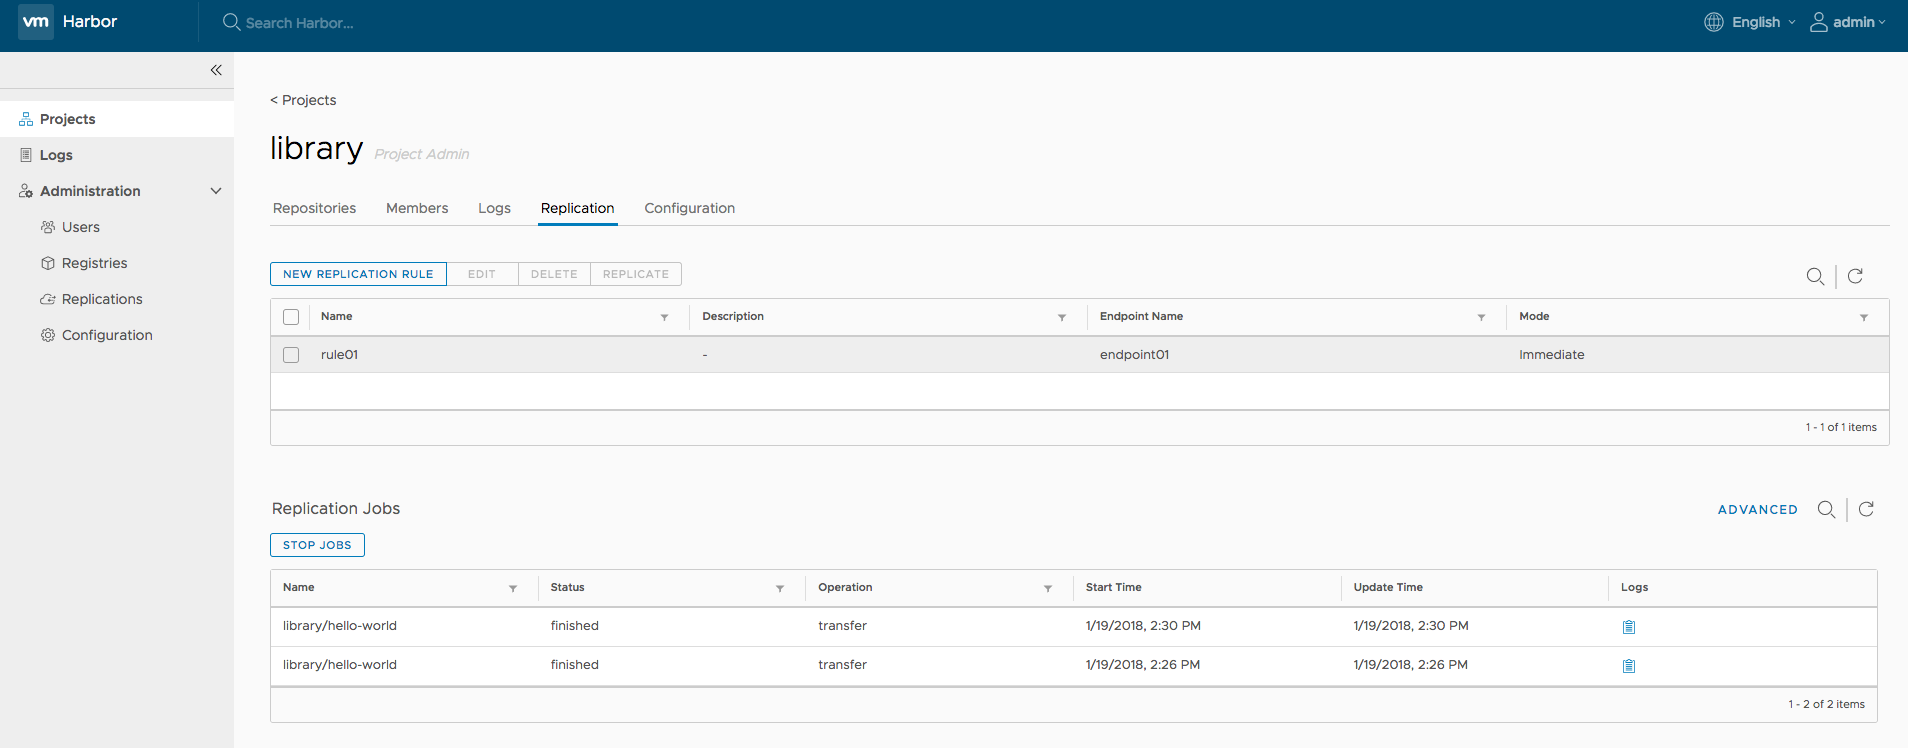
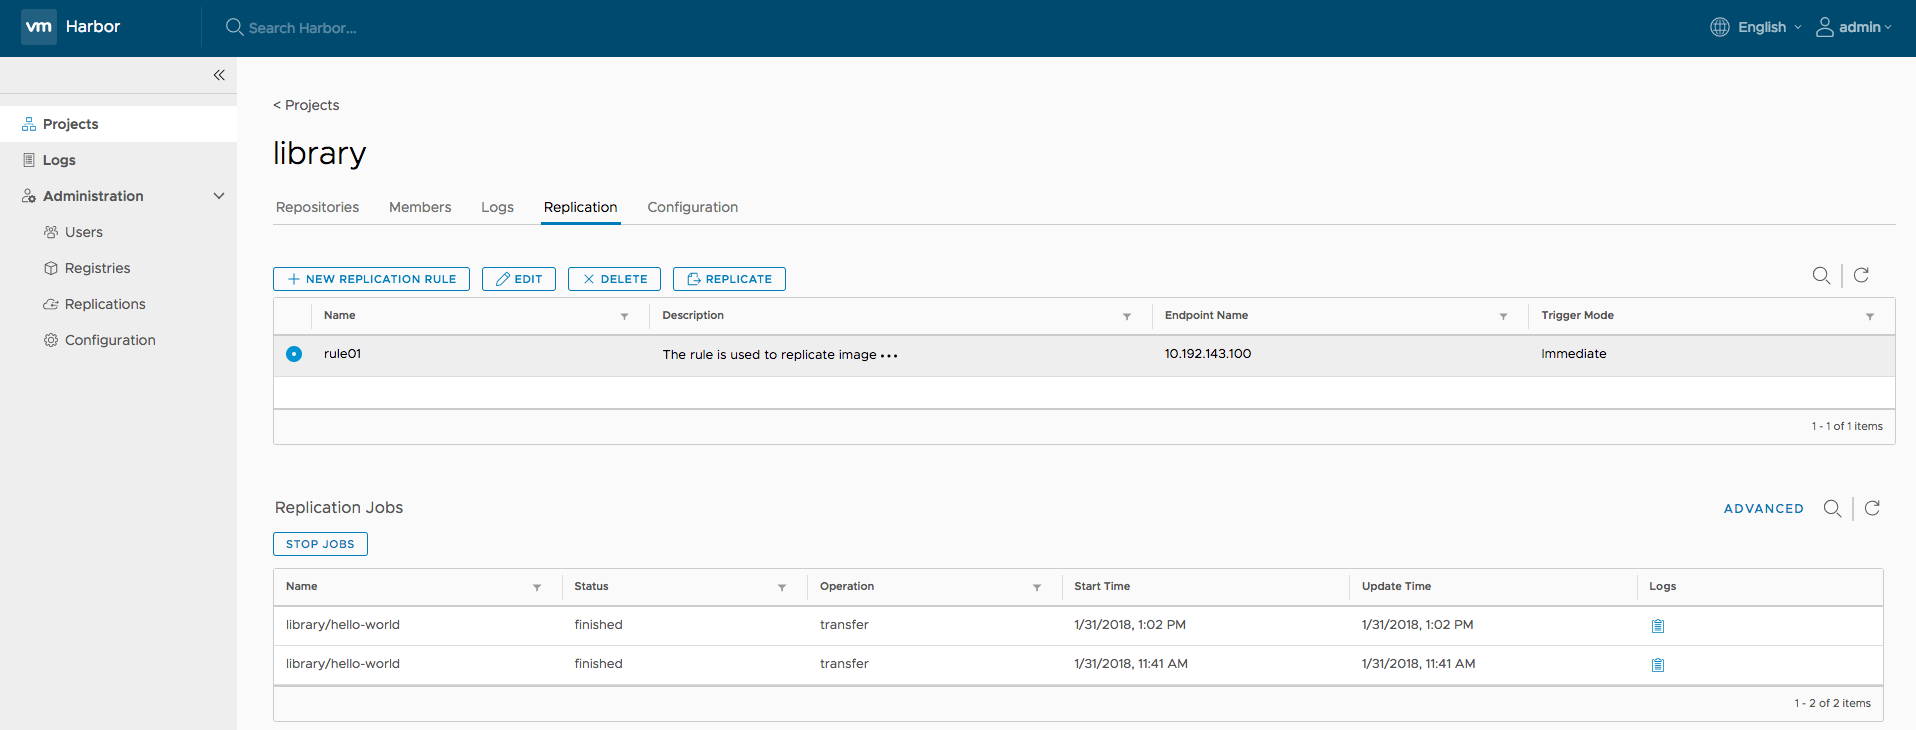
Update replication part of user guide as some UI pages are changed

diff --git a/docs/user_guide.md b/docs/user_guide.md
@@ -109,17 +109,17 @@ You can check one or more members, then click `MEMBER ACTION`, choose one role t
 ## Replicating images  
 Images replication is used to replicate repositories from one Harbor instance to another.
 
-The function is project-oriented, and once the system administrator set a rule to one project, all repositories under the project that match the defined [filter](#replication-filter) patterns will be replicated to the remote registry when the [triggering condition](#replication-triggering-condition) is triggered. Each repository will start a job to run. If the project does not exist on the remote registry, a new project will be created automatically, but if it already exists and the user configured in policy has no write privilege to it, the process will fail. The member information will not be replicated.  
+The function is project-oriented, and once the system administrator set a rule to one project, all repositories under the project that match the defined [filter](#image-filter) patterns will be replicated to the remote registry when the [triggering condition](#trigger-mode) is triggered. Each repository will start a job to run. If the project does not exist on the remote registry, a new project will be created automatically, but if it already exists and the user configured in policy has no write privilege to it, the process will fail. The member information will not be replicated.  
 
-There may be a bit of delay during replication according to the situation of the network. If replication job fails due to the network issue, the job will be re-scheduled a few minutes later.  
+There may be a bit of delay during replication according to the situation of the network. If replication job fails due to the network issue, the job will be re-scheduled a few minutes later and the schedule will keep trying until the network issue resolved.  
 
 **Note:** The replication feature is incompatible between Harbor instance before version 0.3.5(included) and after version 0.3.5. 
 
 ### Creating a replication rule
-Replication can be configured by creating a rule. Click `NEW REPLICATION RULE` under `Administration->Replications` and fill in the necessary fields. You can choose different replication filters and triggering conditions according the different requirements. If there is no endpoint available in the list, you need to create one. Click `OK` to create a replication rule for the selected project. If `Replicate existing images immediately` is chosen, the existing images under the project will be replicated to the remote registry immediately.  
+Replication can be configured by creating a rule. Click `NEW REPLICATION RULE` under `Administration->Replications` and fill in the necessary fields. You can choose different image filters and trigger modes according to the different requirements. If there is no endpoint available in the list, you need to create one. Click `SAVE` to create a replication rule for the selected project. If `Replicate existing images immediately` is chosen, the existing images under the project will be replicated to the remote registry immediately.  
 
-#### Replication filter
-Two replication filters are supported:
+#### Image filter
+Two image filters are supported:
 * **Repository**: Filter images according to the repository part of image name.
 * **Tag**: Filter images according to the tag part of image name.
 
@@ -127,20 +127,20 @@ Two terms are supported in filter pattern:
 * **\***: Matches any sequence of non-separator characters `/`.
 * **?**: Matches any single non-separator character `/`.
 
-#### Replication triggering condition
+#### Trigger mode
+* **Manual**: Replicate the repositories manually when needed. **Note**: The deletion operations are not replicated. 
 * **Immediate**: When a new repository is pushed to the project, it is replicated to the remote registry immediately. Same to the deletion operation if the `Delete remote images when locally deleted` checkbox is selected.
-* **Scheduled**: Replicate the repositories daily or weekly. **Note**: The deletion operations are not replicated.
-* **Manual**: Replicate the repositories manually when needed. **Note**: The deletion operations are not replicated.  
+* **Scheduled**: Replicate the repositories daily or weekly. **Note**: The deletion operations are not replicated. 
 
 ![browse project](img/create_rule.png)
 
 ### Listing and stopping replication jobs
-Click a rule, jobs which belong to this rule will be listed. A job represents the progress of replicating the repository to the remote instance. Click `STOP JOBS`, the pending/running/retrying jobs will be stopped.  
+Click a rule, jobs which belong to this rule will be listed. A job represents the progress of replicating the repository to the remote instance. Click `STOP JOBS`, the pending and retrying jobs will be stopped immediately and the running jobs will be canceled at the next checkpoint.  
 
 ![browse project](img/list_stop_jobs.png)
 
 ### Starting a replication manually
-Start a new replication by selecting the replication rule and clicking `REPLICATE`. If there is any pending/running job that belongs to the rule, new replication will not be started.
+Select a replication rule and click `REPLICATE`, the images under the project which the rule is applied to will be replicated to the remote registry immediately. If there is any pending/running job that belongs to the rule, the new replication will not be started.
 
 ![browse project](img/start_replicate.png)
 
@@ -150,7 +150,7 @@ Select the replication rule and click `DELETE` to delete it. Only rules which ha
 ![browse project](img/delete_rule.png)
 
 
-The system administrator can operate the replication rule defined for the specified project in `Replication` tab under `Projects` view. Project administrator has read-only privilege.
+The system administrator can also operate the replication rules defined for the specified project in `Replication` tab under `Projects` view. Project administrator has read-only privilege.
 
 ![browse project](img/rule_under_project_view.png)
 
